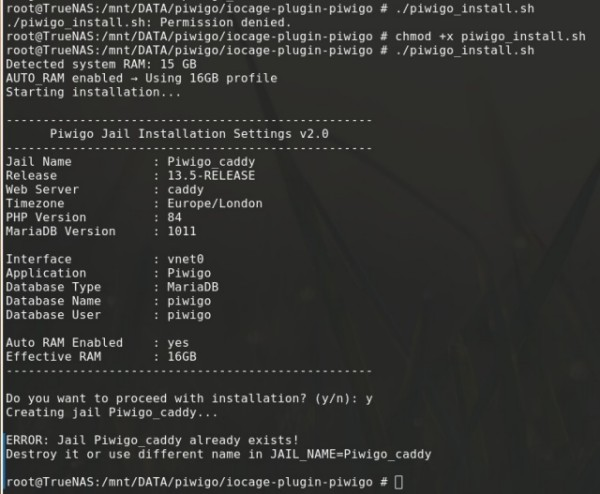
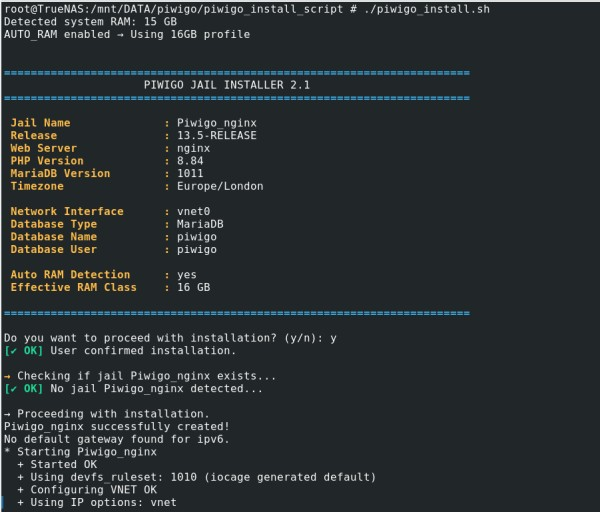
Updateupdate images

Changed region(s): [[0.0, 0.0, 1.0, 1.0], [0.54, 0.7287, 0.57, 0.7591]]

diff --git a/README.md b/README.md
@@ -1,6 +1,6 @@
 # Piwigo-Jail-Auto-Installer-for-TrueNAS-iocage
 ## Piwigo Jail Installer for TrueNAS CORE 13.5  
-### Version v2.0 – Dynamic RAM Scaling Edition
+### Version v2.1 – Dynamic RAM Scaling Edition
 
 ![Validation Shell Prompt](images/validation-shell-600.jpg)
 
@@ -38,7 +38,7 @@ It automatically configures:
 
 ---
 
-# 🚀 What’s New in v2.0
+# 🚀 What’s New in v2.1
 
 - ✅ Automatic RAM detection
 - ✅ Dynamic scaling for 4GB → 64GB+ servers
@@ -49,6 +49,7 @@ It automatically configures:
 - ✅ Proper jail existence detection
 - ✅ Caddy or Nginx selectable
 - ✅ Production-grade performance defaults
+- ✅ Progress Spinner and ASCII colors
 
 ---
 
@@ -305,7 +306,7 @@ pkg upgrade -y
 # 🏷 Version Information
 
 - TrueNAS Target: 13.5-RELEASE
-- Script Version: v2.0
+- Script Version: v2.1
 - PHP: 8.4
 - MariaDB: 10.11
 - Web Server: Caddy or Nginx
